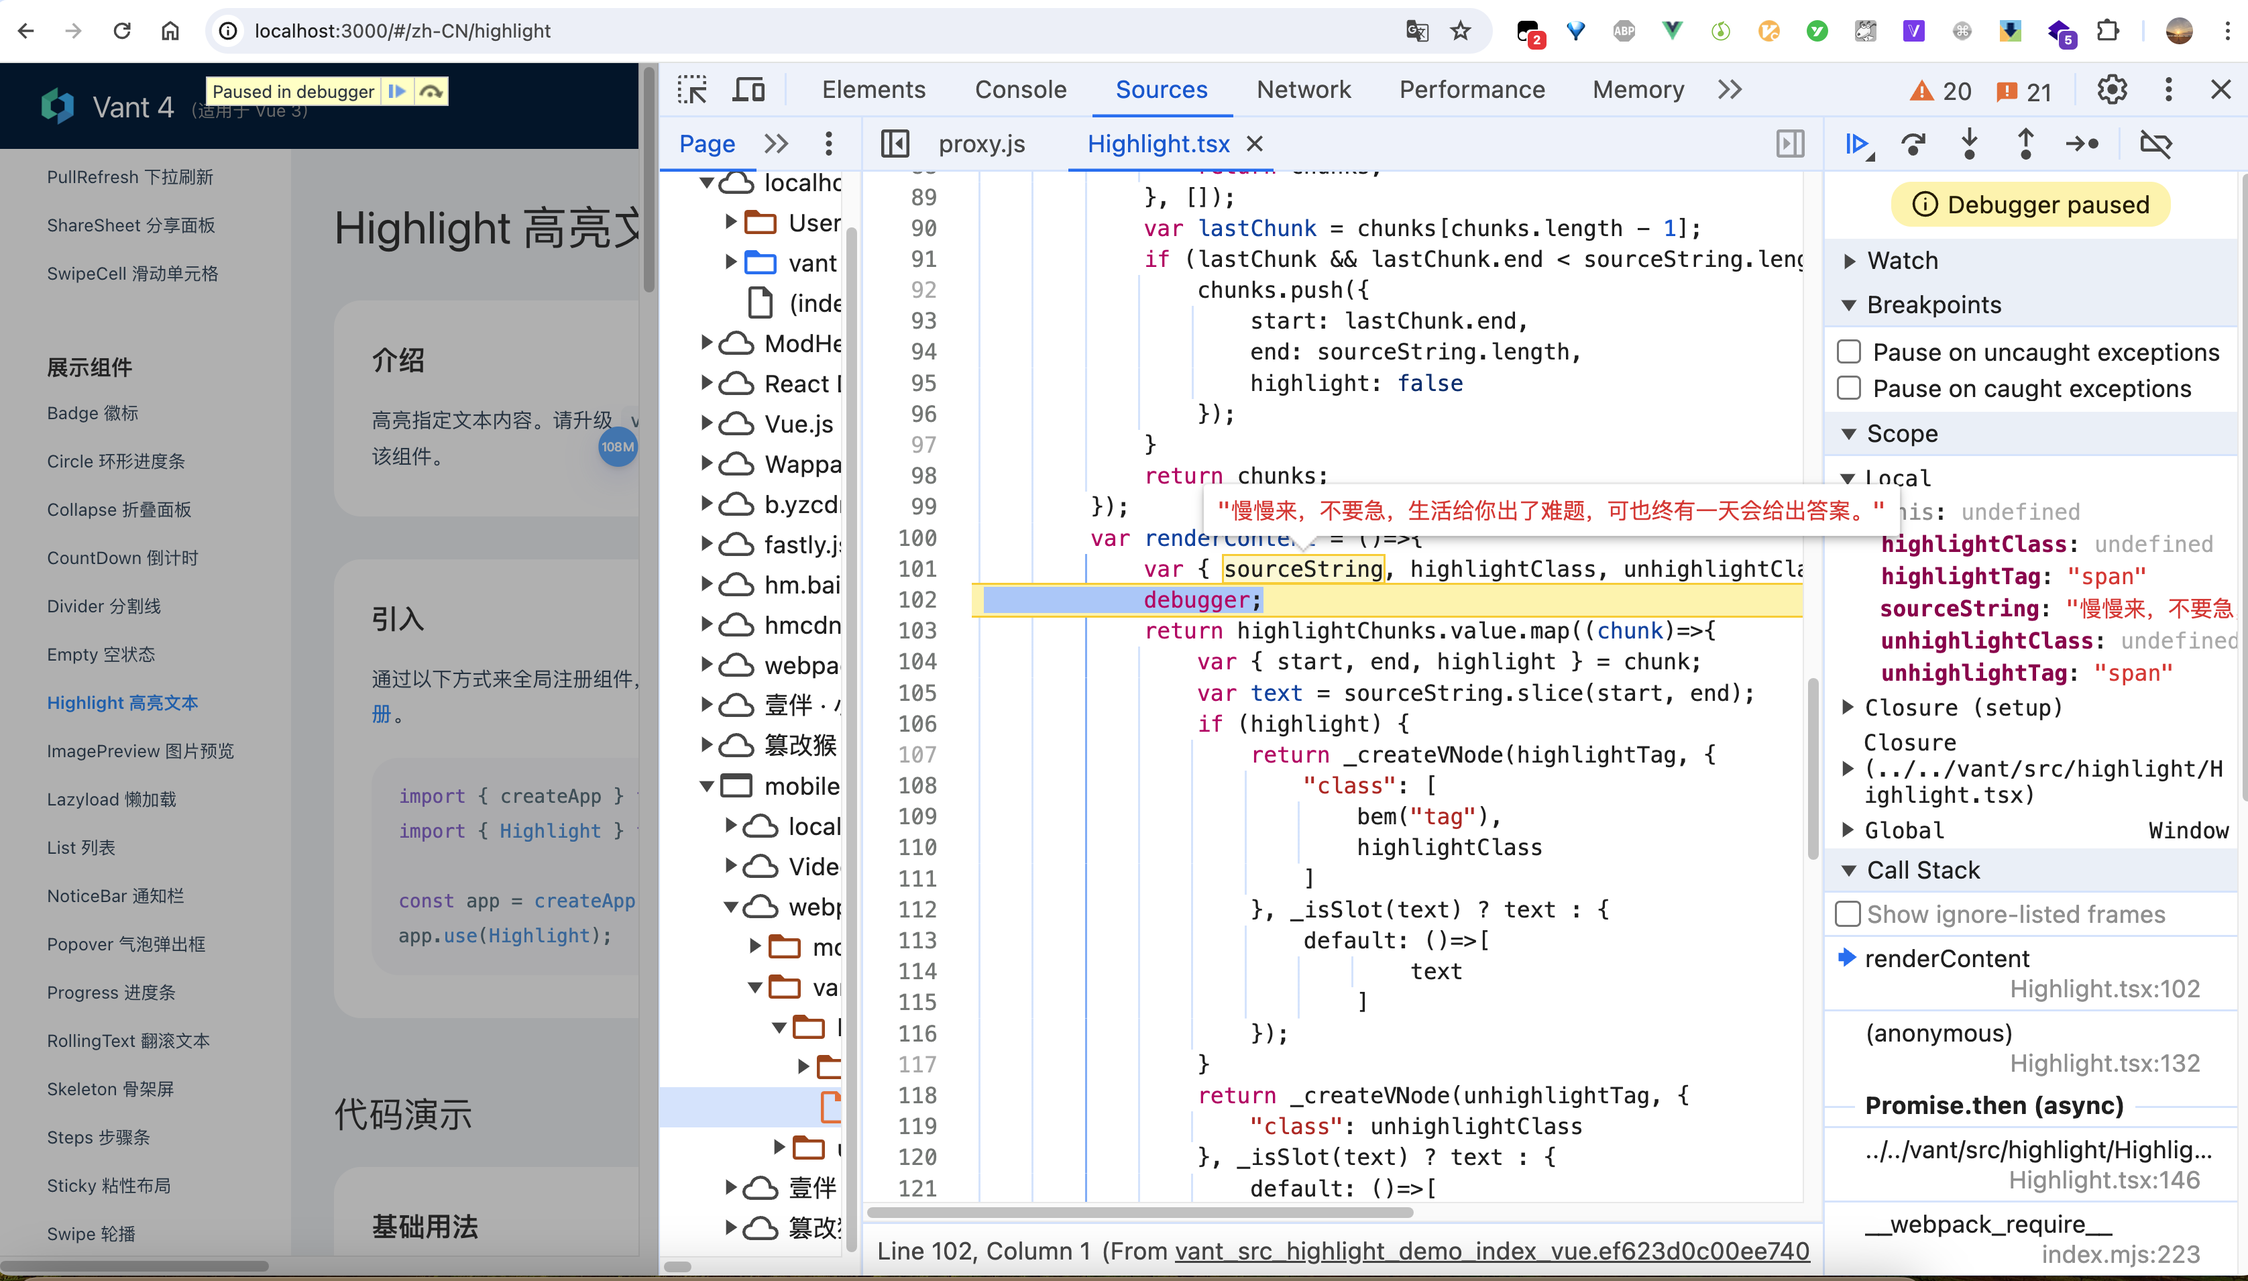
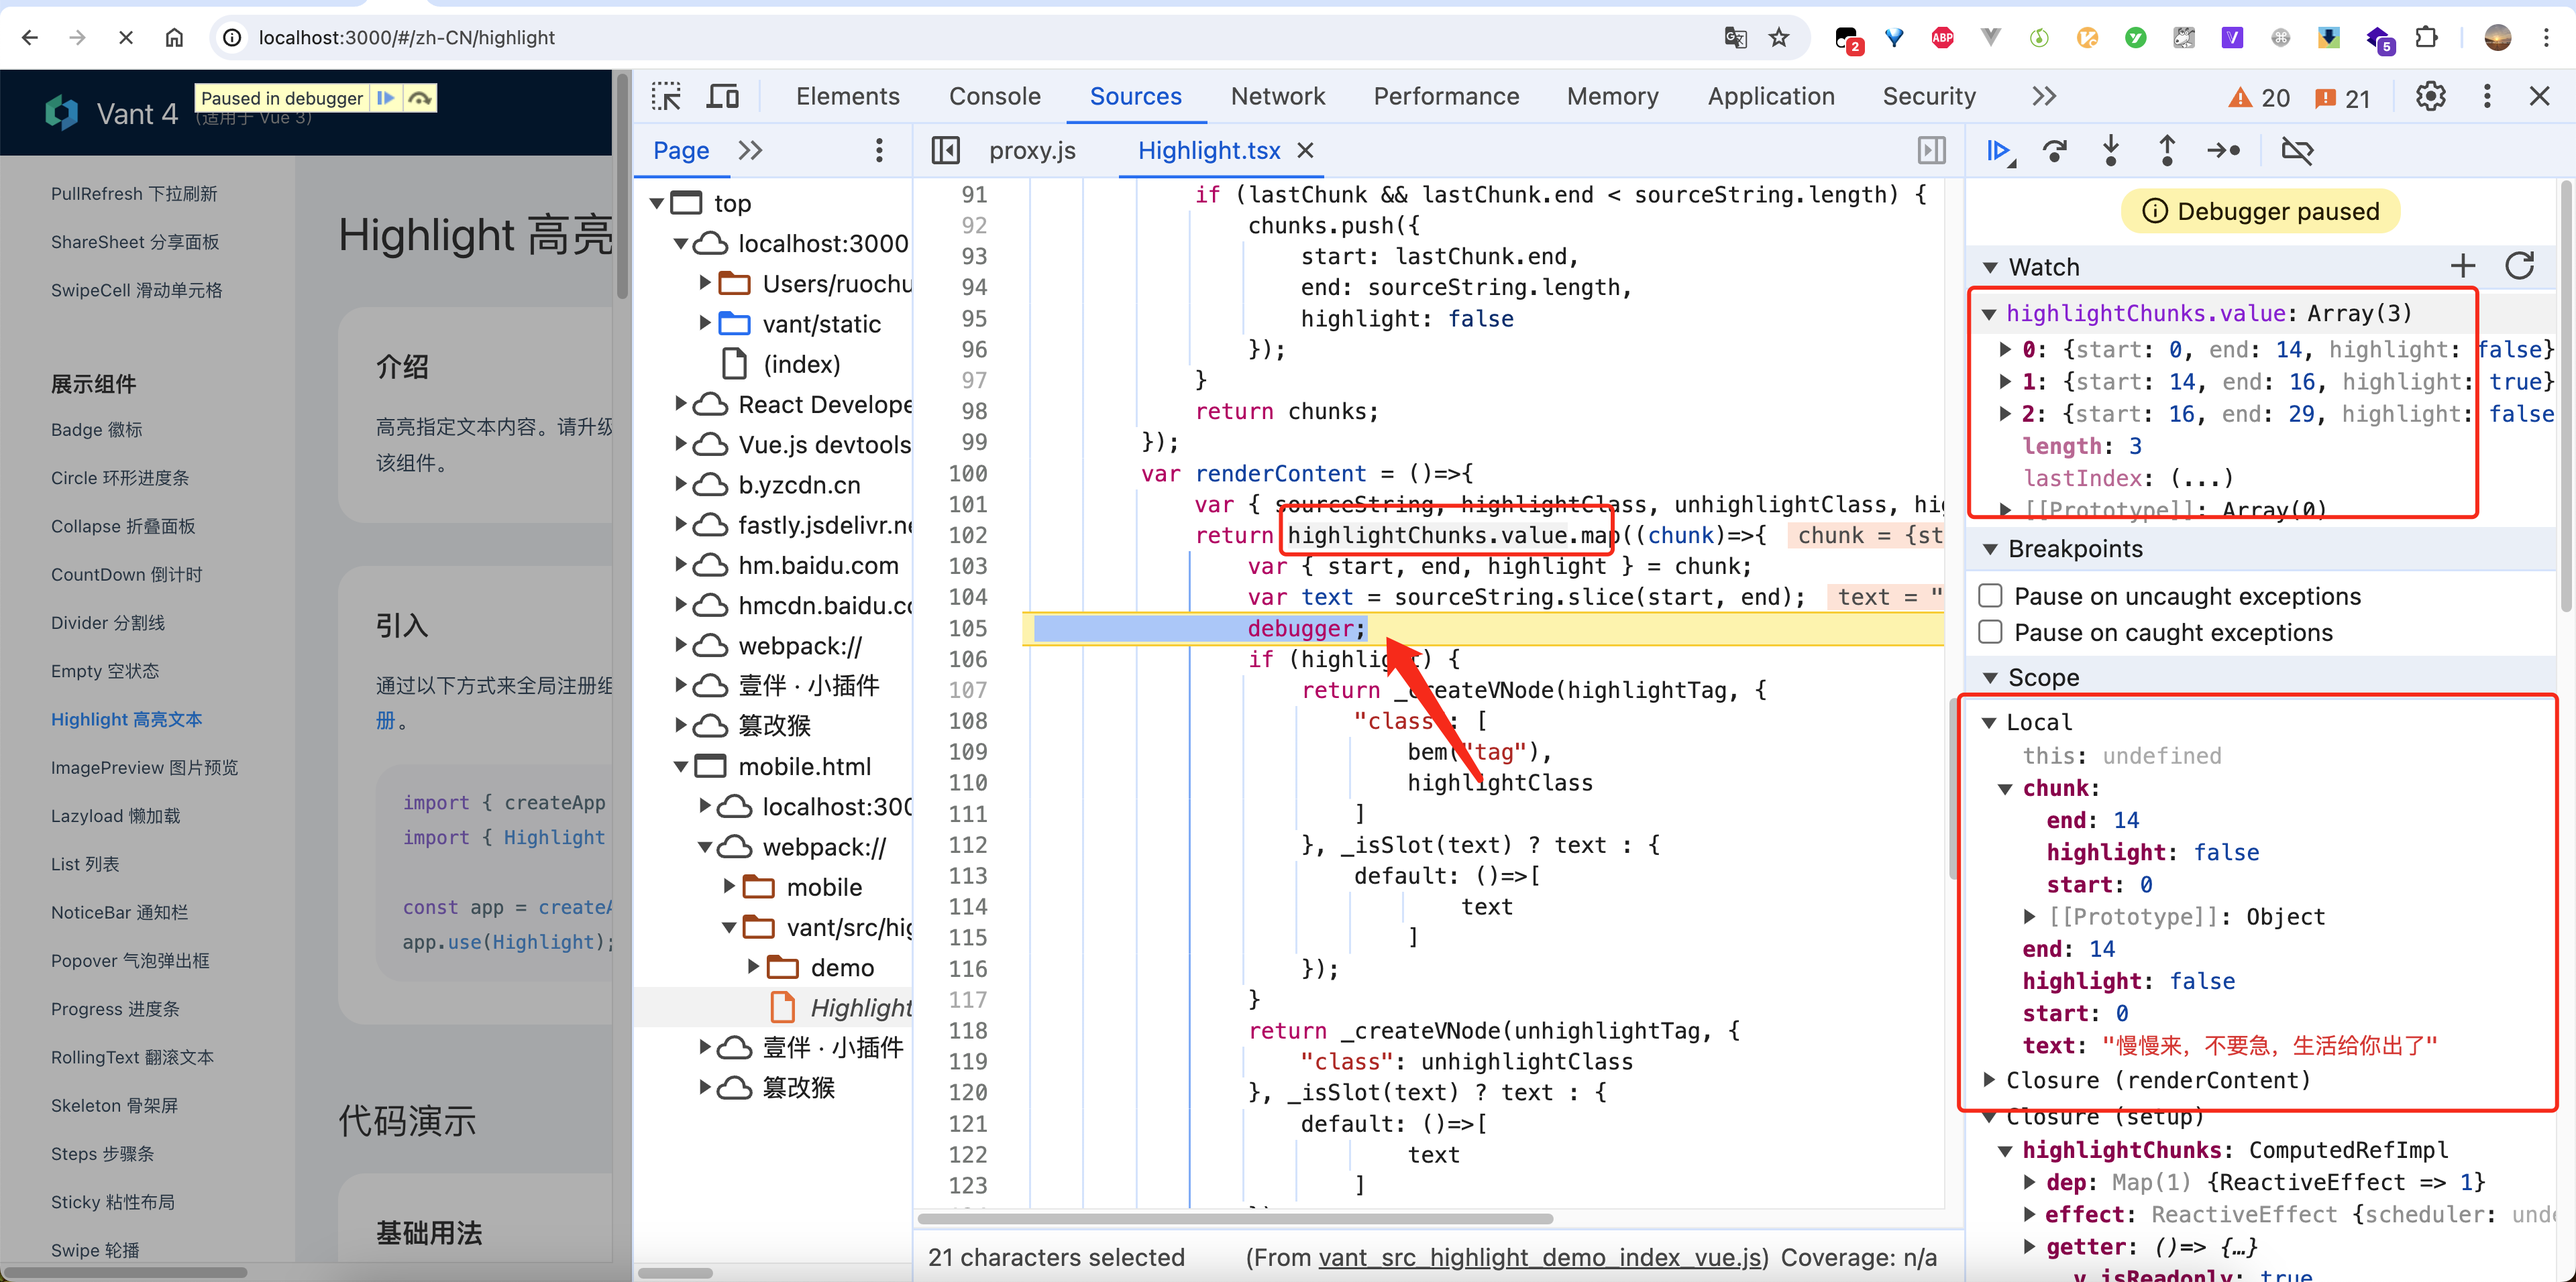
docs: ✏ 更新 highlight 文章

Changed region(s): [[0.0, 0.0, 1.0, 1.0], [0.1241, 0.834, 0.2172, 0.8958], [0.1551, 0.4634, 0.1862, 0.4942]]

diff --git a/md-v4.8/highlight/README.md b/md-v4.8/highlight/README.md
@@ -57,7 +57,9 @@ pnpm dev
 
 ![pnpm dev](./images/highlight-dev.png)
 
-## 3. 调试
+## 3. pnpm run dev => vant-cli dev
+
+我们从 `package.json` 脚本查看 `dev` 命令。
 
 ```json
 // vant-v4.8/package.json
@@ -76,6 +78,8 @@ pnpm dev
 
 限制了 `pnpm` 版本大于 `9.0.0`，如果运行报版本错误，可以升级（比如：`npm i -g pnpm`） `pnpm` 版本到 `9.x`。
 
+我们继续跟着 `vant/package.json` 脚本查看 `dev` 命令。
+
 ```json
 // vant-v4.8/packages/vant/package.json
 {
@@ -86,6 +90,8 @@ pnpm dev
     }
 }
 ```
+
+我们继续跟着 `vant-cli/package.json` 脚本查看 `bin` 命令。
 
 ```json
 // vant-v4.8/packages/vant-cli/package.json
@@ -107,8 +113,7 @@ import './lib/cli.js';
 
 从 `package.json` 中的 `bin` 属性可以看出，`vant-cli` 最终入口文件是`lib/cli.js`。
 
-
-### lib/cli.js
+### 3.1 lib/cli.js
 
 ```js
 // vant-v4.8/packages/vant-cli/lib/cli.js
@@ -176,7 +181,7 @@ const rsbuildConfig = {
 
 往期讲述了很多工具函数和脚手架相关的等，所以在此不再赘述。
 
-### 3.1 利用 demo 调试源码
+### 3.2 利用 demo 调试源码
 
 带着问题我们直接找到 `highlight demo` 文件：`vant/packages/vant/src/highlight/demo/index.vue`。为什么是这个文件，我在之前文章[跟着 vant4 源码学习如何用 vue3+ts 开发一个 loading 组件，仅88行代码](https://juejin.cn/post/7160465286036979748#heading-3)分析了其原理，感兴趣的小伙伴点击查看。这里就不赘述了。
 
@@ -230,7 +235,7 @@ const t = useTranslate({
 
 ## 4. 高亮
 
-### 入口文件 src/highlight/index.ts
+### 4.1 入口文件 src/highlight/index.ts
 
 ```ts
 // vant-v4.8/packages/vant/src/highlight/index.ts
@@ -254,7 +259,7 @@ declare module 'vue' {
 
 `withInstall` 函数在之前文章[5.1 withInstall 给组件对象添加 install 方法](https://juejin.cn/post/7160465286036979748#heading-10) 也有分析，这里就不赘述了。
 
-### 主文件：src/highlight/Highlight.tsx
+### 4.2 主文件：src/highlight/Highlight.tsx
 
 例如：
 
@@ -326,8 +331,31 @@ export default defineComponent({
       } = props;
 
       return highlightChunks.value.map((chunk) => {
+        /**
+         * highlightChunks.value 调试查看数值
+          [
+            {
+                "start": 0,
+                "end": 14,
+                "highlight": false
+            },
+            {
+                "start": 14,
+                "end": 16,
+                "highlight": true
+            },
+            {
+                "start": 16,
+                "end": 29,
+                "highlight": false
+            }
+        ]
+         * 
+        */
         const { start, end, highlight } = chunk;
         const text = sourceString.slice(start, end);
+        
+        debugger;
 
         if (highlight) {
           return (
@@ -379,7 +407,7 @@ export default defineComponent({
 根据高亮块的信息，在原始字符串中按要求插入高亮标签或非高亮标签，形成最终的高亮内容。
 通过这些步骤，`highlight` 组件实现了在给定字符串中根据关键字进行高亮展示的功能。整体思路是根据关键字生成高亮块，然后在渲染时根据这些块的信息插入合适的标签实现高亮效果。
 
-### highlightChunks
+### 4.3 highlightChunks 函数
 
 我们重点分析下 `setup` 中的 `highlightChunks` 函数。
 
@@ -463,7 +491,9 @@ const highlightChunks = computed(() => {
 });
 ```
 
-## 8. 加源码共读交流群
+## 5. 总结
+
+## 6. 加源码共读交流群
 
 作者：常以[若川](https://lxchuan12.gitee.io)为名混迹于江湖。所知甚少，唯善学。
 
